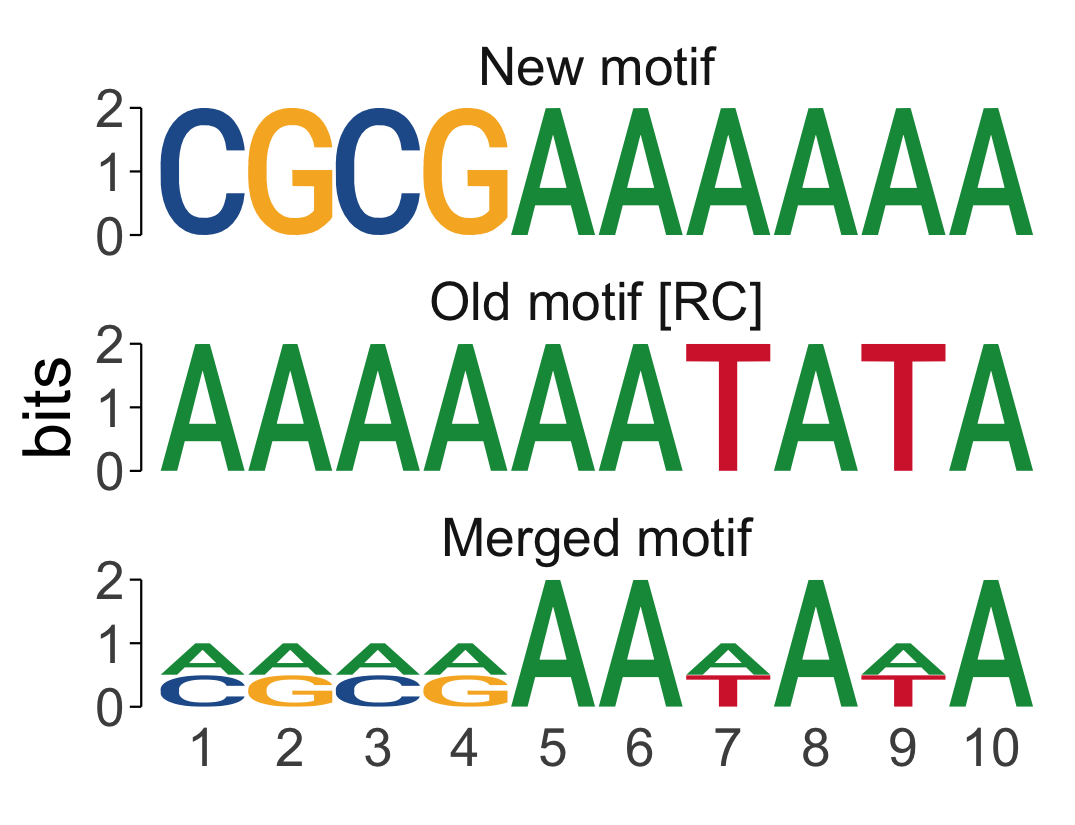
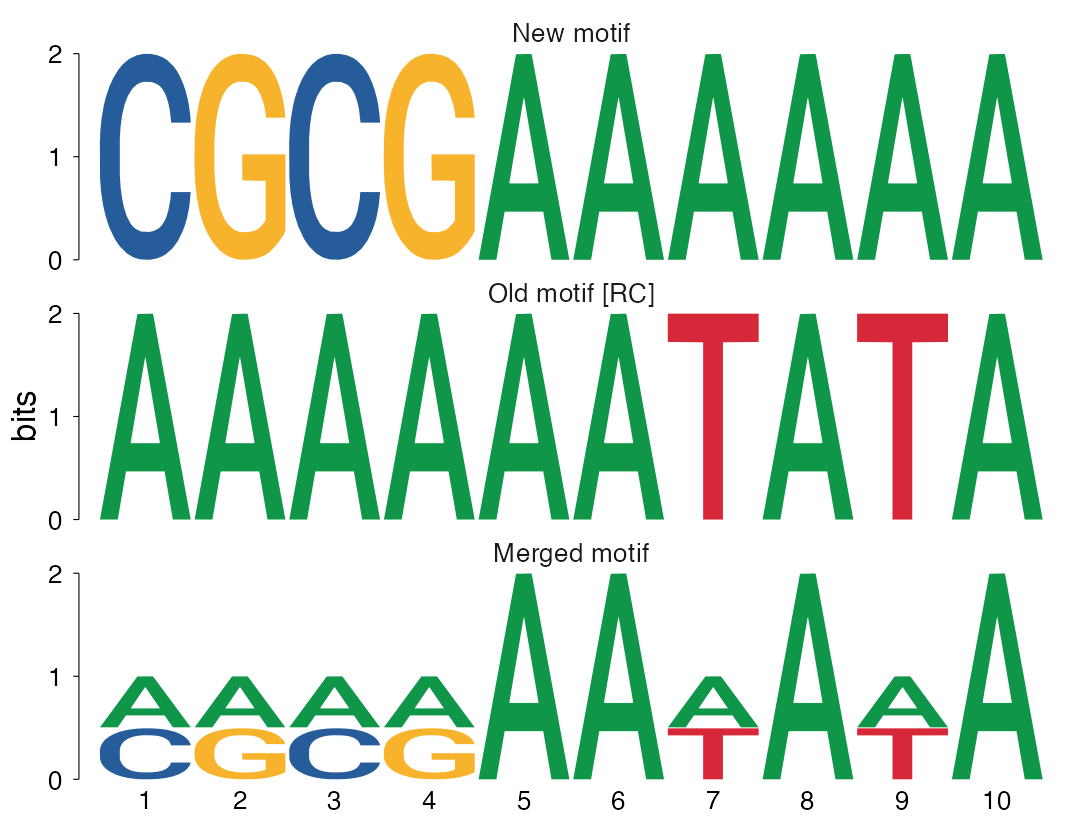
README: refresh overview to cover the current feature set
Brings the landing page up to date with the package as it stands: notes
CWM support, de novo discovery, co-occurrence testing, and the faster
DNA/RNA comparison and scanning functions; adds the ChIP-seq workflow and
motif database curation vignettes to the list; introduces a CWM section
with a plotted contribution logo; and reworks the comparison example
around compare_motifs2(), merge_motifs2() and view_motifs2(), regenerating
the example figures. Also bumps the version to 1.31.25.

diff --git a/README.md b/README.md
@@ -7,11 +7,15 @@ exported into most major motif formats from various classes as defined by other
 Bioconductor packages. Furthermore, this package allows for easy manipulation
 of motifs, such as creation, trimming, shuffling, P-value calculations,
 filtering, type conversion, reverse complementation, alphabet switching, random
-motif site generation, and comparison. Alongside are also included functions
-for interacting with sequences, such as motif scanning and enrichment, as well
-as sequence creation and shuffling functions. Finally, this package implements
-higher-order motifs, allowing for more accurate sequence scanning and motif
-enrichment.
+motif site generation, and comparison. Contribution weight matrices (CWMs) from
+deep learning methods are supported as a motif type alongside the probabilistic
+representations. Alongside are also included
+functions for interacting with sequences, such as motif scanning and enrichment,
+_de novo_ motif discovery, and motif co-occurrence testing, as well as sequence
+creation and shuffling functions. For DNA and RNA motifs, faster
+Pearson-correlation implementations of motif comparison and sequence scanning
+are also available. Finally, this package implements higher-order motifs,
+allowing for more accurate sequence scanning and motif enrichment.
 
 ## Installation
 
@@ -51,6 +55,8 @@ All of the functions within the `universalmotif` package are fairly well documen
 - [Motif import, export, and manipulation](https://bioconductor.org/packages/release/bioc/vignettes/universalmotif/inst/doc/MotifManipulation.pdf)
 - [Sequence manipulation and scanning](https://bioconductor.org/packages/release/bioc/vignettes/universalmotif/inst/doc/SequenceSearches.pdf)
 - [Motif comparisons and P-values](https://bioconductor.org/packages/release/bioc/vignettes/universalmotif/inst/doc/MotifComparisonAndPvalues.pdf)
+- [An end-to-end ChIP-seq workflow](https://bioconductor.org/packages/release/bioc/vignettes/universalmotif/inst/doc/ChIPseqWorkflow.pdf)
+- [Building a curated motif database](https://bioconductor.org/packages/release/bioc/vignettes/universalmotif/inst/doc/MotifDatabaseCuration.pdf)
 
 You can also look through the slides of my [Bioc2021 presentation](https://f1000research.com/slides/10-715), which goes over some basics of motif representations, scanning, and motif comparison.
 
@@ -106,6 +112,30 @@ create_motif()
 ```
 
 See `?universalmotif` for a list of available metadata slots. Most slots can be accessed using square brackets, e.g. `MotifObject["motif"]` accesses the raw numeric matrix. You can also dump the contents of all user-facing motif slots at once into a list, e.g. `MotifObject[]`.
+
+The `universalmotif` class supports five motif types: the four probabilistic representations `PCM`, `PPM`, `PWM` and `ICM`, plus `CWM` (contribution weight matrix). A CWM holds signed, unnormalised per-position, per-letter contribution scores of the kind produced by deep learning methods, and so it carries no column-sum constraint. CWMs can be created directly, read from and written to MEME and generic-matrix files, converted to a PPM, and trimmed by contribution:
+
+```r
+library(universalmotif)
+
+m <- matrix(c(
+   0.16, -0.05, -0.04,  0.00,  0.71, -0.09, -0.08, -0.14, -0.09,  0.57, -0.01,  0.18, -0.01,  # A
+  -0.05, -0.05,  0.02,  0.54, -0.10,  0.91, -0.11, -0.12, -0.10, -0.10,  0.32, -0.04,  0.02,  # C
+  -0.03,  0.00,  0.35, -0.01, -0.09, -0.07,  0.97, -0.14,  0.72, -0.07, -0.05,  0.02, -0.02,  # G
+  -0.02,  0.19,  0.04, -0.05, -0.06, -0.15, -0.10,  0.91, -0.11, -0.06, -0.08, -0.01,  0.10), # T
+  nrow = 4, byrow = TRUE,
+  dimnames = list(c("A", "C", "G", "T"), NULL))
+
+cwm <- create_motif(m, type = "CWM", name = "attribution_motif")
+
+convert_type(cwm, "PPM")  # |cwm| / colSums(|cwm|), per column
+
+view_motifs(cwm, use.type = "CWM", flip.neg = TRUE)  # contribution logo, negatives flipped
+```
+
+<img src="inst/figures/cwm.png" width="100%" />
+
+`read_meme()` and `write_meme()` take a `CWM = TRUE` flag to read or write CWM matrices, `read_matrix()` and `write_matrix()` round-trip them via `type = "CWM"`, and `trim_cwm()` trims low-contribution flanking columns by absolute column sum.
 
 ### Sequence creation, shuffling and background calculation
 
@@ -177,6 +207,8 @@ get_bkg(ArabidopsisPromoters, window = TRUE)
 #> 840       901      1000         TTT       271   0.0553061
 ```
 
+Several further sequence utilities are provided: `match_bkg()` and `plot_match_bkg()` sample composition-matched background sequences from a larger universe, `mask_ranges()` and `mask_seqs()` mask regions of sequences (for example low-complexity or repeat regions) before scanning, and `implant_motifs()` plants known motif instances at known positions, useful for building a labelled answer key to test discovery and scanning pipelines.
+
 ### Sequence scanning and higher order motifs
 
 The `universalmotif` package provides the `scan_sequences()` function to quickly scan a set of input sequences for motif hits. Additionally, the `add_multifreq()` function can be used to generate higher order motifs. These can also be used to scan sequences with higher accuracy. By default `scan_sequences()` calculates a threshold cutoff from a P-value, though this can be changed to a manual logodds threshold.
@@ -245,9 +277,11 @@ scan_sequences(motif.k2, ArabidopsisPromoters, use.freq = 2, threshold = 1e-6)
 
 Note the differences between the matching sequences of regular scanning versus higher order scanning.
 
+For DNA and RNA, `scan_sequences2()` offers a faster scanner that reuses the same C++ core as `scan_sequences()` while matching the defaults of the [yamtk](https://github.com/bjmt/yamtk) command-line tool. Beyond scanning known motifs, `motif_finder()` discovers motifs _de novo_ directly from a set of sequences, and `motif_coocc()` tests for significantly co-occurring motif pairs.
+
 ### Motif comparison, merging and viewing
 
-A commonly performed task after _de novo_ motif discovery is to check how closely it might resemble known motifs. This can be performed using the highly customizable `compare_motifs()` with one of several available metrics. Different motifs can also be merged with `merge_motifs()`. In addition to motif visualization, `view_motifs()` can also be used to examine the top-scoring alignment chosen by `compare_motifs()` and `merge_motifs()`.
+A commonly performed task after _de novo_ motif discovery is to check how closely it might resemble known motifs. This can be performed using the highly customizable `compare_motifs()` with one of several available metrics. Different motifs can also be merged with `merge_motifs()`, and `view_motifs()` can be used to examine the top-scoring alignment chosen by either. For DNA and RNA motifs, `compare_motifs2()`, `merge_motifs2()` and `view_motifs2()` provide faster alternatives built on a Pearson-correlation backend, while `motif_tree2()` turns a `compare_motifs2()` score matrix into a distance tree. The example below uses these faster functions; the originals behave equivalently and also handle amino-acid and custom alphabets.
 
 ```r
 library(universalmotif)
@@ -259,14 +293,13 @@ old.motif <- create_motif("TATATTTTTT", name = "Old motif")
 Using very strict alignment parameters, such as no overhangs:
 
 ```r
-compare_motifs(c(new.motif, old.motif), method = "PCC", min.overlap = 10)[2]
+compare_motifs2(c(new.motif, old.motif), min.overlap = 10)[1, 2]
 #> [1] 0.2
 
-merged.motif <- merge_motifs(c(new.motif, old.motif), method = "PCC",
+merged.motif <- merge_motifs2(c(new.motif, old.motif),
     new.name = "Merged motif", min.overlap = 10)
 
-view_motifs(c(new.motif, old.motif, merged.motif), method = "PCC",
-    min.overlap = 10)
+view_motifs2(c(new.motif, old.motif, merged.motif), min.overlap = 10)
 ```
 
 <img src="inst/figures/example2.png" width="75%" />
@@ -274,16 +307,15 @@ view_motifs(c(new.motif, old.motif, merged.motif), method = "PCC",
 After relaxing the alignment parameters:
 
 ```r
-compare_motifs(c(new.motif, old.motif), method = "PCC", min.overlap = 5)[2]
+compare_motifs2(c(new.motif, old.motif), min.overlap = 5)[1, 2]
 #> [1] 1
 
-merged.motif <- merge_motifs(c(new.motif, old.motif), method = "PCC",
+merged.motif <- merge_motifs2(c(new.motif, old.motif),
     new.name = "Merged motif", min.overlap = 5)
 
-view_motifs(c(new.motif, old.motif, merged.motif), method = "PCC",
-    min.overlap = 5)
+view_motifs2(c(new.motif, old.motif, merged.motif), min.overlap = 5)
 ```
 
 <img src="inst/figures/example1.png" width="100%" />
 
-By default `compare_motifs()` returns a numeric matrix, meaning the output from comparisons between large numbers of motifs can be easily used to generate heatmaps or dendrograms.
+Like `compare_motifs()`, `compare_motifs2()` returns a numeric matrix by default, meaning the output from comparisons between large numbers of motifs can be easily used to generate heatmaps or dendrograms.